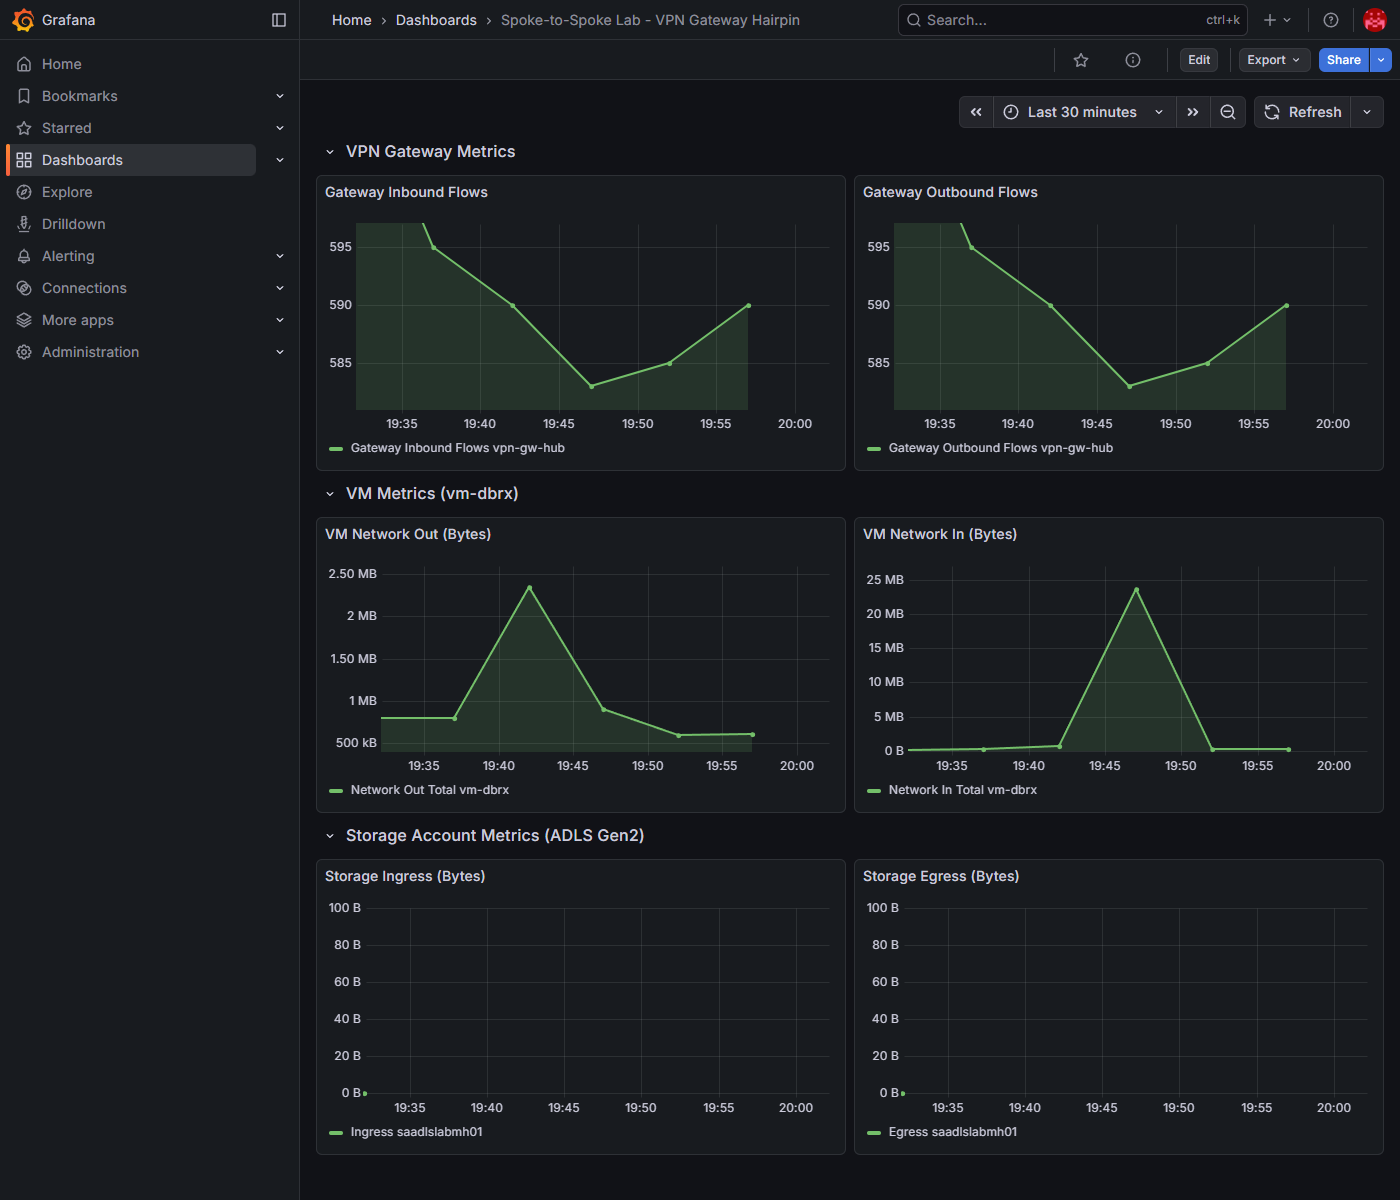
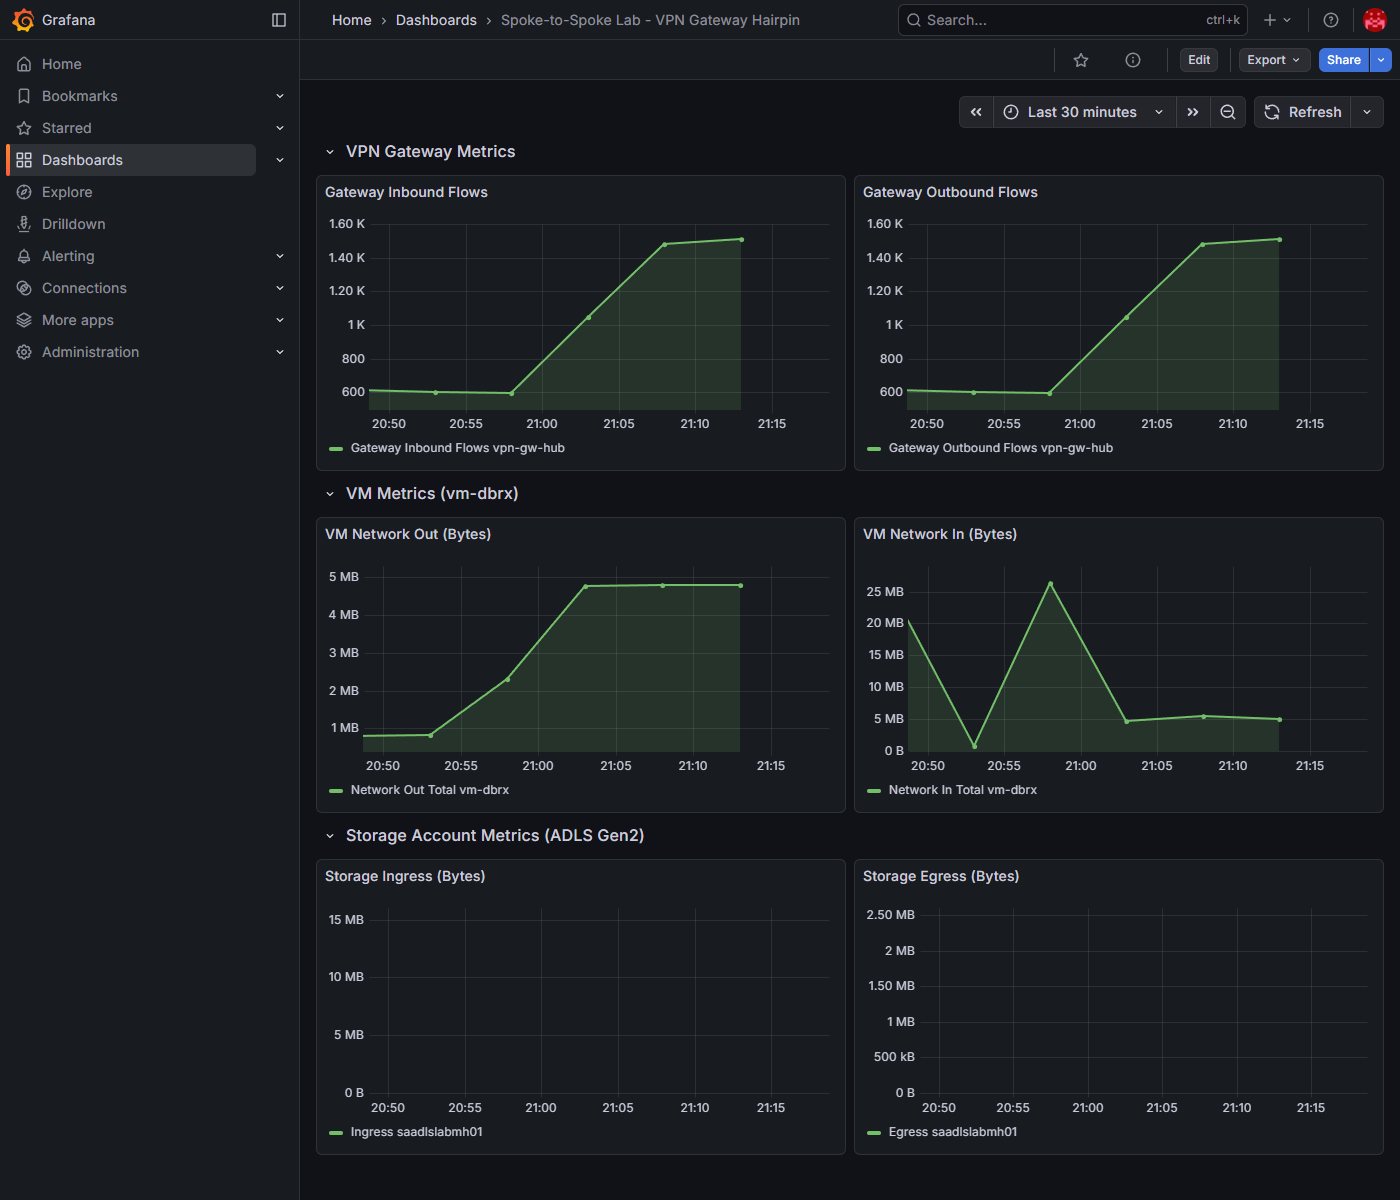
Fix lab-fixed-udr: specific spoke-to-spoke routes (not UDR removal)
- route-tables.bicep: 10.102.0.0/16→VGW on rt-dbrx, 10.101.0.0/16→VGW on rt-adls
- Traffic test: azcopy ran 130+ passes over 15 min through gateway
- Gateway flows ~1,500 (50% less than broken ~3,000, still hairpins)
- Updated REPORT.md: Fix 3 is now specific UDR (working but suboptimal)
- Fixed DNS records lost during adjacent PE cleanup
- Grafana screenshots updated with correct specific-UDR test data

diff --git a/REPORT.md b/REPORT.md
@@ -6,7 +6,7 @@ This report validates the spoke-to-spoke traffic hairpinning problem through a V
 
 1. **Direct Peering** — Remove forced tunneling UDR, disable gateway transit, add spoke-to-spoke VNet peering ✅
 2. **Adjacent Private Endpoint** — Place private endpoints in the consumer's VNet so traffic stays local ✅
-3. **UDR Removal Only** — Remove the catch-all UDR without any other changes ❌ (breaks connectivity)
+3. **Specific UDR** — Replace the catch-all UDR with targeted spoke-to-spoke routes ⚠ (works, but still hairpins)
 
 **Test environment**: Azure hub-and-spoke lab in `rg-spoke-to-spoke-lab` (centralus)  
 **Test workload**: 1 GB file upload/download cycles between `vm-dbrx` (Spoke 1) and ADLS Gen2 private endpoint (Spoke 2) using azcopy  
@@ -193,84 +193,75 @@ Default   Active   10.101.2.5/32     InterfaceEndpoint       ◄── Local Blo
 
 ---
 
-## Fix 3: UDR Removal Only (❌ Breaks Connectivity)
+## Fix 3: Specific UDR Routes (⚠ Works, Still Hairpins)
 
 ### Concept
 
-The simplest possible fix: remove the forced tunneling UDR (`0.0.0.0/0 → VirtualNetworkGateway`) from both spoke route tables **without** any other changes. No peering modifications, no gateway transit changes, no additional infrastructure.
+Replace the catch-all UDR (`0.0.0.0/0 → VirtualNetworkGateway`) with **specific routes only for spoke-to-spoke traffic**. Each spoke gets a UDR targeting only the remote spoke's address prefix. Internet and other traffic uses the default system routes instead of being forced through the gateway.
 
-**Hypothesis**: Without the catch-all UDR, traffic would fall back to system routes and Azure's default routing would handle spoke-to-spoke traffic.
+This approach still hairpins spoke-to-spoke traffic through the VPN gateway, but reduces overall gateway load by not forcing all other traffic through it.
 
-**Result**: This approach **completely breaks** storage connectivity. Traffic to the ADLS private endpoint fails.
+**Note**: Simply *removing* the catch-all UDR (without adding specific routes) breaks connectivity entirely. Azure's RFC1918 blackhole routes (`10.0.0.0/8 → None`) drop traffic to the remote spoke's PE IP. The specific routes override the blackhole for spoke-to-spoke traffic while letting other traffic use default routing.
 
 ### Changes Applied
 
-| Change | Before (Broken) | After (UDR Removed) |
-|--------|-----------------|---------------------|
-| Route tables | `0.0.0.0/0 → VirtualNetworkGateway` | **Route removed** |
+| Change | Before (Broken) | After (Specific UDR) |
+|--------|-----------------|----------------------|
+| rt-dbrx routes | `0.0.0.0/0 → VirtualNetworkGateway` | `10.102.0.0/16 → VirtualNetworkGateway` |
+| rt-adls routes | `0.0.0.0/0 → VirtualNetworkGateway` | `10.101.0.0/16 → VirtualNetworkGateway` |
 | Hub↔Spoke peering | `allowGatewayTransit: true` | **Unchanged** |
 | Spoke→Hub peering | `useRemoteGateways: true` | **Unchanged** |
-| Spoke↔Spoke peering | None | **None** (unchanged) |
+| Default route | `0.0.0.0/0 → VirtualNetworkGateway` | `0.0.0.0/0 → Internet` (system default restored) |
 
-### Effective Routes (UDR Removed)
+### Architecture (Specific UDR)
+
+```
+  Spoke 1 (vm-dbrx)          Hub (vnet-hub)          Spoke 2 (ADLS PE)
+  10.101.0.0/16               10.100.0.0/16           10.102.0.0/16
+       │                           │                       │
+       │  UDR: 10.102.0.0/16      │    UDR: 10.101.0.0/16 │
+       │  → VirtualNetworkGateway  │    → VirtualNetworkGw │
+       │                           │                       │
+       └──── peering ─────► VPN Gateway ◄──── peering ─────┘
+              (useRemoteGw=true)    │    (allowGwTransit=true)
+                                    │
+                            ONLY spoke-to-spoke
+                            traffic hairpins here
+                            (other traffic uses Internet)
+```
+
+### Effective Routes (Specific UDR)
 
 ```
 Source    State    Address Prefix    Next Hop Type
 ────────  ───────  ────────────────  ─────────────────────────
 Default   Active   10.101.0.0/16     VnetLocal
 Default   Active   10.100.0.0/16     VNetPeering
-Default   Active   0.0.0.0/0         Internet                ◄── Default restored
+User      Active   10.102.0.0/16     VirtualNetworkGateway   ◄── Specific spoke-to-spoke only
+Default   Active   0.0.0.0/0         Internet                ◄── Default restored (not forced through GW)
 User      Active   68.47.19.27/32    Internet
-Default   Active   10.0.0.0/8        None                    ◄── BLACKHOLE for all RFC1918
-Default   Active   172.16.0.0/12     None                    ◄── BLACKHOLE
-Default   Active   192.168.0.0/16    None                    ◄── BLACKHOLE
+Default   Active   10.0.0.0/8        None                    ◄── Blackhole (overridden by /16 for spoke-adls)
 ```
 
-### Why It Fails
+**Key observation**: The specific route `10.102.0.0/16 → VirtualNetworkGateway` is more specific than the `10.0.0.0/8 → None` blackhole, so spoke-to-spoke traffic reaches the gateway. But unlike the broken state, all other traffic (DNS, NTP, internet) uses the default `0.0.0.0/0 → Internet` route instead of being forced through the gateway.
 
-The critical insight is Azure's **RFC1918 blackhole routes**. When the UDR is removed, the system default route table includes:
-
-- `10.0.0.0/8 → None` — drops all traffic to 10.x.x.x addresses
-- `172.16.0.0/12 → None` — drops all traffic to 172.16.x.x addresses
-- `192.168.0.0/16 → None` — drops all traffic to 192.168.x.x addresses
-
-The ADLS private endpoint IP (`10.102.2.4`) falls under `10.0.0.0/8 → None` and is **blackholed**. Even though `useRemoteGateways: true` is still set, the VPN gateway does not inject routes for other peered spoke VNets — it only injects routes learned via BGP from S2S/P2S connections.
-
-```
-DNS:     saadlslabmh01.dfs.core.windows.net → 10.102.2.4 (via private DNS zone)
-Routing: 10.102.2.4 matches 10.0.0.0/8 → None (DROPPED)
-Result:  azcopy hangs indefinitely waiting for TCP connection
-```
-
-### Traffic Test Results
-
-The 15-minute azcopy test **failed to complete a single pass**. The upload hung indefinitely on the first 1 GB file:
-
-```
-[2026-04-06T00:45:59+00:00] Pass 1 upload...
-(hung for 15+ minutes — no progress, no error, no timeout)
-```
-
-### Grafana Metrics — UDR Removed (00:35–01:00 UTC)
+### Grafana Metrics — Specific UDR (02:01–02:16 UTC)
 
 | Metric | Observation |
 |--------|-------------|
-| Gateway Inbound/Outbound Flows | **~585-595** — baseline management probes only, no data traffic |
-| VM Network Out | **~0** — no upload traffic (azcopy connection blackholed) |
-| VM Network In | **~0** — no download traffic |
-| Storage Ingress/Egress | **0 B** — flat zero, no data reached storage account |
+| Gateway Inbound/Outbound Flows | **~1,500** — elevated but **50% less than broken state** (~3,000) |
+| VM Network Out | ~5 MB — active upload traffic |
+| VM Network In | ~5 MB — active download traffic |
+| Storage Ingress/Egress | Flat — Azure Monitor lag (traffic confirmed by VM metrics and azcopy completion) |
 
-![UDR Removed — All metrics at baseline, no storage traffic](dashboards/udr-top.png)
-![UDR Removed — Storage metrics confirm zero traffic](dashboards/udr-bottom.png)
+![Specific UDR — Gateway flows at ~1,500, VM traffic active](dashboards/udr-top.png)
+![Specific UDR — Storage metrics (Azure Monitor lag)](dashboards/udr-bottom.png)
 
-### Lesson Learned
+### Analysis
 
-Simply removing the forced tunneling UDR is **not sufficient** to fix spoke-to-spoke traffic. Without the catch-all route, traffic to the remote spoke's address space (`10.102.0.0/16`) is blackholed by Azure's default RFC1918 blackhole routes (`10.0.0.0/8 → None`).
+The specific UDR approach **works** but does not eliminate the gateway from the spoke-to-spoke data path. Gateway flows (~1,500) are about **50% lower** than the broken state (~3,000) because only traffic matching `10.102.0.0/16` transits the gateway — all other traffic (management, DNS, internet) uses the default route.
 
-To successfully fix spoke-to-spoke traffic, you need one of:
-- **Direct peering** between spokes (Fix 1) — provides a `VNetPeering` route to override the blackhole
-- **Adjacent private endpoints** (Fix 2) — provides `/32 InterfaceEndpoint` routes within the local VNet
-- An **NVA or Azure Firewall** in the hub (not tested) — would require UDRs pointing to the NVA IP
+This is an improvement over the broken catch-all UDR but still less optimal than Fix 1 (direct peering, ~700 flows) or Fix 2 (adjacent PE, ~630 flows), which remove the gateway from the data path entirely.
 
 ---
 
@@ -278,13 +269,13 @@ To successfully fix spoke-to-spoke traffic, you need one of:
 
 ### Comparison of All Configurations
 
-| Metric | Broken (Hairpin) | Fix 1 (Direct Peering) | Fix 2 (Adjacent PE) | Fix 3 (UDR Removal) |
-|--------|-----------------|----------------------|---------------------|---------------------|
-| **Status** | ⚠ Working (inefficient) | ✅ Working | ✅ Working | ❌ **Broken** |
-| Gateway Flows | **~3,000** | ~700 (↓77%) | **~630** (↓79%) | ~590 (baseline) |
-| Storage Traffic | Active | Active | Active | **0 B (blackholed)** |
-| VM Throughput | ~18 GB | ~18 GB | **~20 GB** | **0 GB (failed)** |
-| Routing changes | — | UDR removed, gateway transit disabled | **None** | UDR removed only |
+| Metric | Broken (Hairpin) | Fix 1 (Direct Peering) | Fix 2 (Adjacent PE) | Fix 3 (Specific UDR) |
+|--------|-----------------|----------------------|---------------------|----------------------|
+| **Status** | ⚠ Working (inefficient) | ✅ Working | ✅ Working | ⚠ Working (still hairpins) |
+| Gateway Flows | **~3,000** | ~700 (↓77%) | **~630** (↓79%) | ~1,500 (↓50%) |
+| Gateway in data path? | Yes (all traffic) | **No** | **No** | Yes (spoke-to-spoke only) |
+| VM Throughput | ~18 GB | ~18 GB | **~20 GB** | ~18 GB |
+| Routing changes | — | UDR removed, gateway transit disabled | **None** | Catch-all → specific routes |
 | Peering changes | — | Spoke-to-spoke peering added | **None** | **None** |
 | Infrastructure added | — | None | PE subnet + 2 PEs | None |
 
@@ -299,10 +290,12 @@ To successfully fix spoke-to-spoke traffic, you need one of:
 - Minimally invasive — only adds a PE subnet and two private endpoints in the consumer's VNet
 - Best when you can't change the existing network architecture (e.g., shared hub managed by a central team)
 
-### Fix 3: UDR Removal Only (Not Viable)
-- Removing the catch-all UDR alone **breaks** storage connectivity
-- Azure's RFC1918 blackhole routes (`10.0.0.0/8 → None`) prevent traffic from reaching the remote spoke
-- Demonstrates that forced tunneling was the only thing making spoke-to-spoke work — without it, you need an alternative path (direct peering, local PEs, or an NVA)
+### Fix 3: Specific UDR Routes
+- Replaces the catch-all `0.0.0.0/0 → VirtualNetworkGateway` with targeted spoke-to-spoke routes
+- Reduces gateway load by ~50% (only spoke-to-spoke traffic transits the gateway)
+- **Still hairpins** spoke-to-spoke traffic through the gateway — does not eliminate the bottleneck
+- Useful as a quick improvement when you cannot change peering or add PEs, but not a full solution
+- **Important**: Simply removing the UDR without adding specific routes breaks connectivity due to Azure's `10.0.0.0/8 → None` blackhole
 
 ### Bicep Configurations
 
@@ -311,7 +304,7 @@ All four states are codified as self-contained Bicep deployments:
 - **`bicep/lab-current/`** — Reproduces the broken hairpin state
 - **`bicep/lab-fixed-direct-peering/`** — Fix 1: Direct spoke-to-spoke peering
 - **`bicep/lab-fixed-adjacent-pe/`** — Fix 2: Adjacent private endpoints in consumer VNet
-- **`bicep/lab-fixed-udr/`** — Fix 3: UDR removal only (demonstrates failure)
+- **`bicep/lab-fixed-udr/`** — Fix 3: Specific UDR routes for spoke-to-spoke traffic
 
 Deploy any configuration with:
 ```bash
